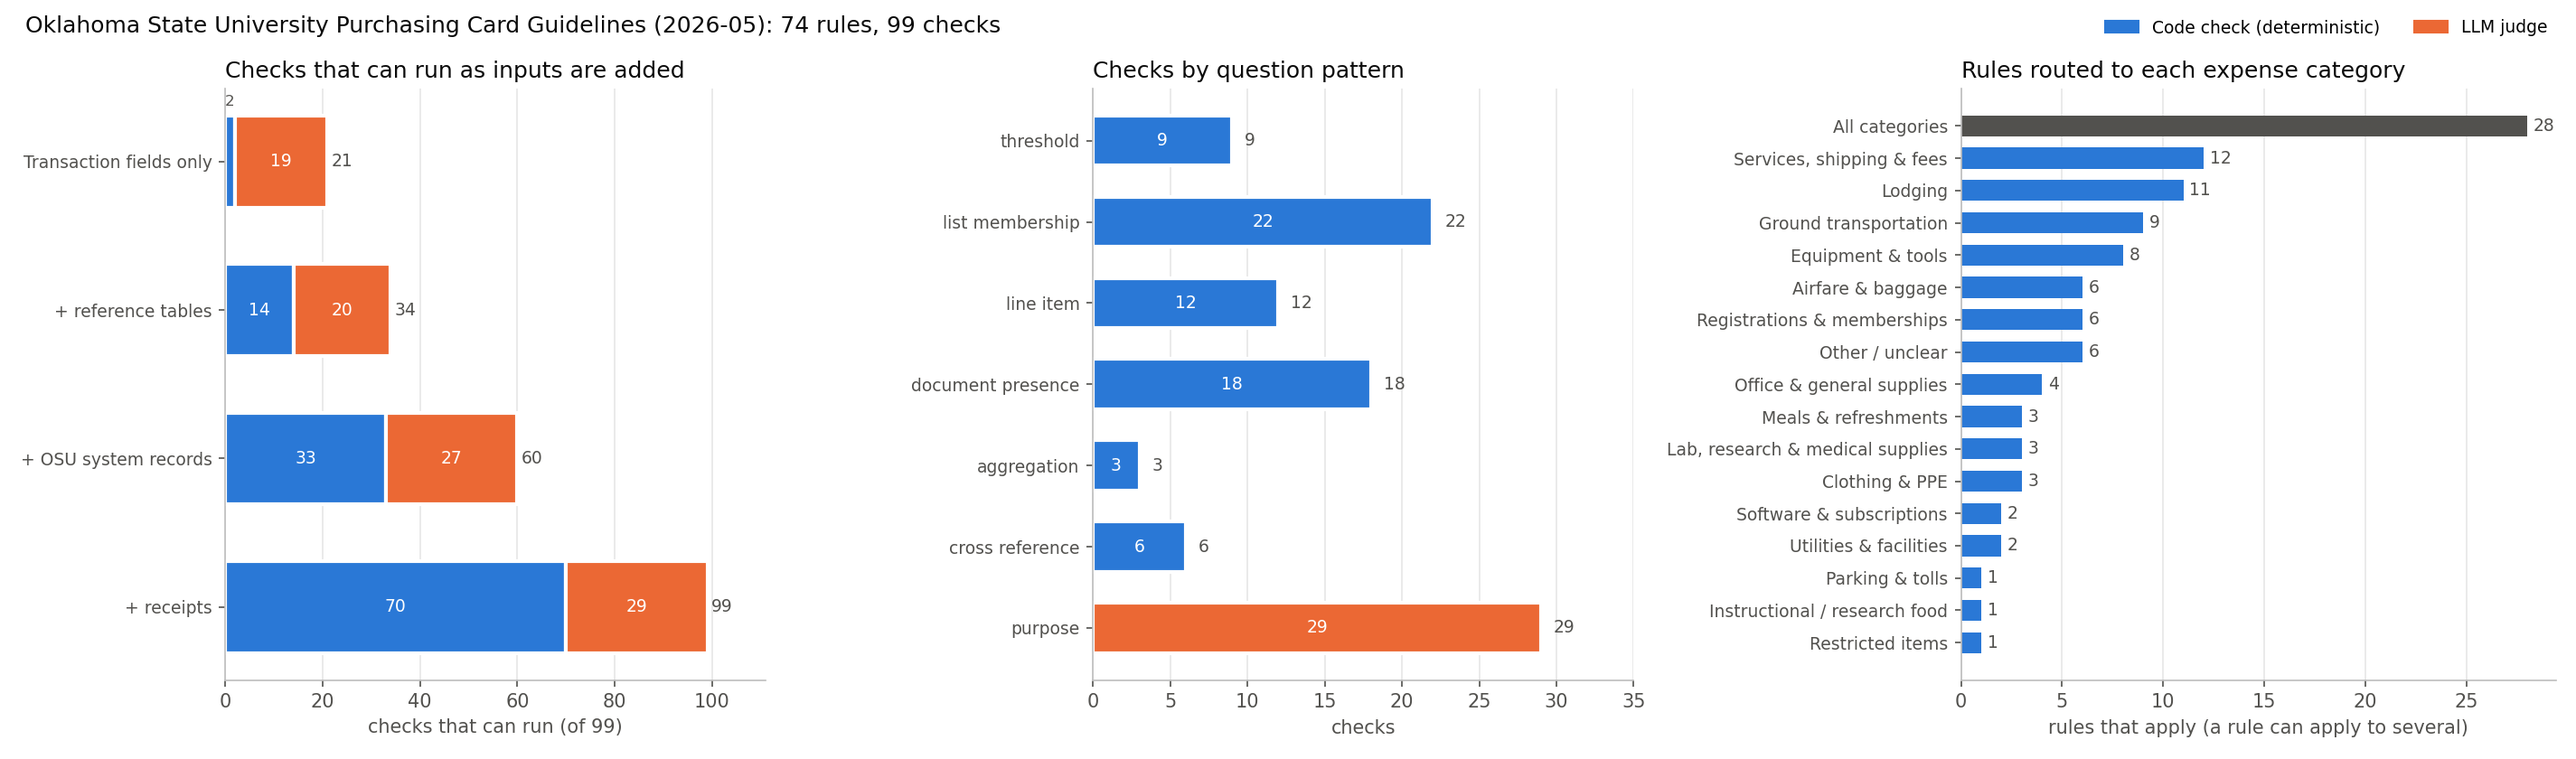
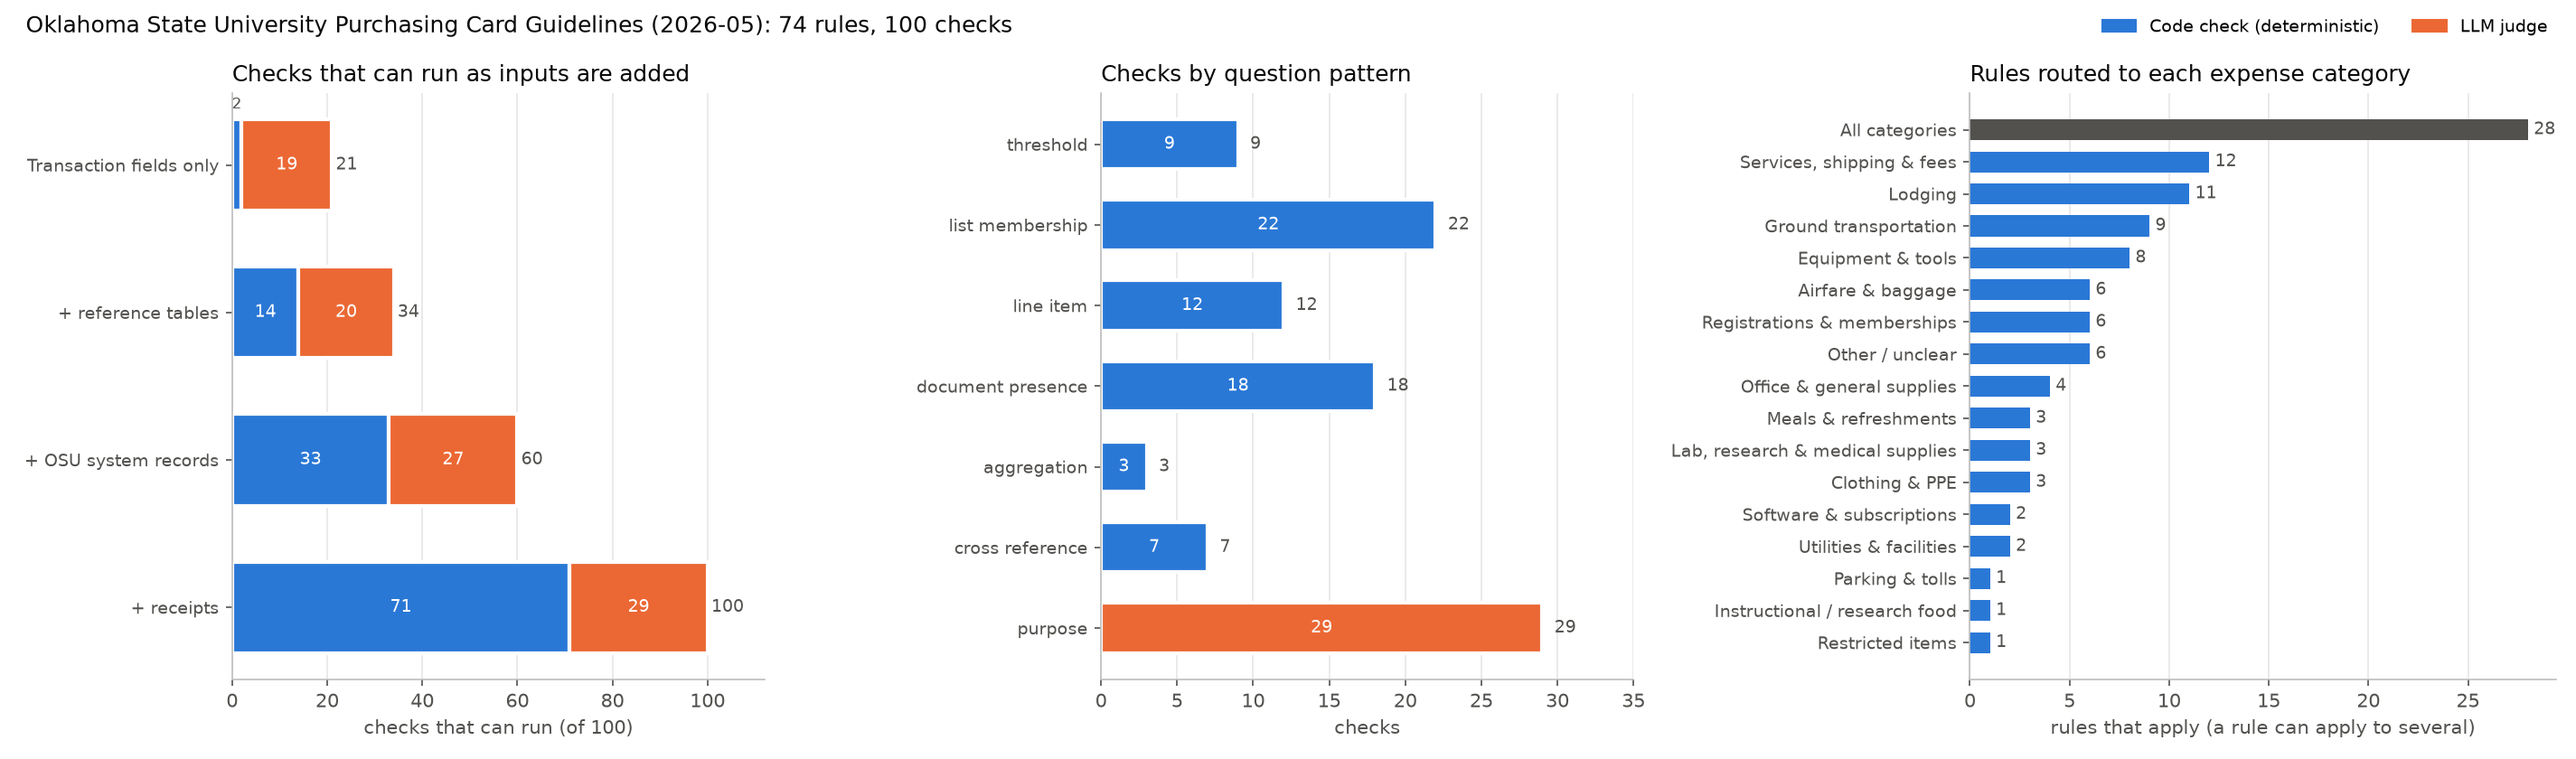
docs: rule checks: deployed inputs, word lists, billing calendar

diff --git a/policies/README.md b/policies/README.md
@@ -11,6 +11,7 @@ policies/
     ├── source/Pcard-Guidelines-2026.05.pdf   # source of truth
     ├── osu_rules.yaml           # rules and their checks (for the engine, routing, citations)
     ├── osu_policy.md            # condensed policy for the LLM judge, tagged with rule and check IDs
+    ├── billing_cycles.yaml      # billing cycles and sign-off cutoffs, for checks with a deadline
     └── rule_breakdown.png       # chart of checks by input, pattern and category
 ```
 
@@ -48,11 +49,11 @@ Rule-level facets: `topic` (`limits`, `vendor`, `process`, `items`, `travel`) fo
 
 **Gates and dependencies.** Some conditions only matter after another one. An airfare upgrade is fine with a documented medical reason, so "receipt shows an upgrade" (OSU-TRV-04a) is a *gate*, and "a documented reason is on file" (OSU-TRV-04b) runs only when the gate is true. The same pattern covers gift cards (OSU-PRH-10a detects them, then the OSU-RST-06 checks run), split purchases (candidate groups, then the judge), food approval and resale permits. Gates keep the engine from reporting a condition that is fine in context.
 
-**Deadlines.** Documents and approvals are attached during reconciliation, the asset report is due within 24 hours, and cycle totals aren't final until the cycle ends. Checks with `timing` report *pending* until their deadline, so a missing receipt on day one isn't a violation.
+**Deadlines.** Documents and approvals are attached during reconciliation, the asset report is due within 24 hours, and cycle totals aren't final until the cycle ends. Checks with `timing` report *pending* until their deadline, so a missing receipt on day one isn't a violation. Deadlines in a billing cycle come from `osu/billing_cycles.yaml`, because the Pcard accountant sets each cycle's sign-off cutoff.
 
-**Patterns map to checkers.** The engine needs one implementation per pattern (seven in total), not one per rule. A new policy is mostly YAML.
+**Checks map to checkers.** Each `code` check has a checker in `src/flag_it/decide/checks/`, registered by check ID in `registry.py`. Checks of one pattern share code: every `line_item` check is the same function reading different word lists from `params`: `<name>_terms` are certain evidence and fail the check, `<name>_review_terms` are ambiguous and only send the run to be looked at, and `<name>_except_terms` cancel a match ("special interest" cancels "interest"). So a new policy is mostly YAML: its limits and word lists reuse the existing checkers.
 
-**Inputs gate checks.** If any `requires` input is missing, the check reports *not evaluated: missing \<input\>* instead of pass or fail. A deployment lists the inputs it has, and checks switch on as inputs are added, with no change to the rules. The input kinds:
+**Inputs gate checks.** A deployment lists the inputs it has in `src/flag_it/decide/checks/inputs.yaml`. A check that needs an input the deployment doesn't have is skipped and reports nothing; it switches on when the input is added, with no change to the rules. If a deployed input is missing for one transaction (no receipt yet), the check reports *not evaluated: missing \<input\>* instead of pass or fail. The input kinds:
 
 - `table:<name>`: a maintained reference table, such as MCC lists, the OSU-department merchant list, GSA lodging rates, or campus addresses. Kept by a separate process and versioned.
 - `records:<system>`: OSU system records. `works` holds card, fund, description and trip number; `hr` holds employee type; `airs` holds travel requests; the others are `asset_mgmt`, `coi` (conflict-of-interest disclosures), `approvals` and `accounts_payable`. These are integrations, and some are time-dependent (an asset report is due within 24 hours).
@@ -68,7 +69,7 @@ The LLM judge reads `osu_policy.md`. Its section 6, the list of checks the judge
 
 ![OSU rule breakdown](osu/rule_breakdown.png)
 
-74 rules, 99 checks: 70 code (6 of them gates), 29 LLM.
+74 rules, 100 checks: 71 code (6 of them gates), 29 LLM.
 
 **Checks that can run as inputs are added** (cumulative):
 
@@ -76,8 +77,8 @@ The LLM judge reads `osu_policy.md`. Its section 6, the list of checks the judge
 |---|---|---|---|---|
 | Transaction fields only | 2 | 19 | 21 | 21% |
 | + reference tables | 14 | 20 | 34 | 34% |
-| + OSU system records | 33 | 27 | 60 | 61% |
-| + receipts | 70 | 29 | 99 | 100% |
+| + OSU system records | 33 | 27 | 60 | 60% |
+| + receipts | 71 | 29 | 100 | 100% |
 
 **Checks by pattern:**
 
@@ -88,15 +89,15 @@ The LLM judge reads `osu_policy.md`. Its section 6, the list of checks the judge
 | line_item | 12 | 0 | 12 |
 | document_presence | 18 | 0 | 18 |
 | aggregation | 3 | 0 | 3 |
-| cross_reference | 6 | 0 | 6 |
+| cross_reference | 7 | 0 | 7 |
 | purpose | 0 | 29 | 29 |
-| **Total** | **70** | **29** | **99** |
+| **Total** | **71** | **29** | **100** |
 
 What this means for the pipeline:
-- **71% of checks are deterministic** (70 of 99). Only questions about what something is, who it was for, or why go to the LLM.
+- **71% of checks are deterministic** (71 of 100). Only questions about what something is, who it was for, or why go to the LLM.
 - **With transaction fields alone, almost nothing deterministic can run.** Only 2 code checks: the $10,000 limit and the same-merchant split-purchase gate. Most of the 21 runnable checks are LLM checks working from item text, and in this data 44% of item text is generic, so expect many `unclear` answers.
 - **Reference tables are the cheapest gain** (+12 code checks). Most are small lists that come straight from the policy, such as the alcohol, postage, insurance and licensed-profession MCCs.
-- **Receipts unlock the most** (+37 code checks): tax, tips, fees, fare class, folio lines and terms. Without receipts, 39 checks report "not evaluated" (37 code, plus 2 LLM checks that can only be judged from the receipt: restocking fees and rental mileage).
+- **Receipts unlock the most** (+38 code checks): tax, tips, fees, fare class, folio lines and terms. Without receipts, 40 checks report "not evaluated" (38 code, plus 2 LLM checks that can only be judged from the receipt: restocking fees and rental mileage).
 - **28 rules apply to every transaction.** Services/shipping (12) and lodging (11) have the most category-specific rules.
 
 ## Regenerating

diff --git a/docs/decisions.md b/docs/decisions.md
@@ -8,6 +8,29 @@ How to add an entry:
 - Keep each entry to a few lines.
 - If a later decision changes an earlier one, say so in both entries.
 
+## 2026-11-16: Rule checks: only certain evidence fails; deployed inputs; word lists in the rules YAML; a billing calendar
+
+- **Decided:**
+  - `run_rule_checks` runs every applicable `code` check on a snapshot and returns flags. A check that needs an input the deployment doesn't have (listed in `src/flag_it/decide/checks/inputs.yaml`, today `transaction` and `receipt`) is skipped with no flag. A deployed input missing for one transaction gives `not_evaluated`. For a `document_presence` check, the missing document is itself the finding: `pending` before its deadline, `fail` after.
+  - **Only certain evidence fails a check.** Certain evidence is `fail` (a hard failure for any severity except guidance). Suggestive evidence is `unclear`: never a hard failure, but `needs_review` is set and the run can't be auto-approved. A blank receipt field is `not_evaluated`, because the reader may have missed it.
+  - Line-item checks read three word lists from the rule's `params`: `<name>_terms` (certain), `<name>_review_terms` (ambiguous), and `<name>_except_terms` (phrases that cancel a match). Matching is on whole words, ignoring case and punctuation. Lodging lines are recognized by `line_type: room` before any word. Every list has tests for innocent lines that share its words ("Special Interest Group dues", "Meeting room rental"). The lists are drafted from the rule text and need the same human review as the rest of the YAML.
+  - The receipt total may differ from the charge by `total_tolerance` (0.50, the same as receipt matching); a tip on the receipt may explain the rest; a charge higher than a receipt with no tip is `unclear` (a tip may have been added after printing). Percentages are compared exactly.
+  - New check `OSU-GEN-04c` reports a receipt whose `match_status` is `mismatch` as `unclear`, as contracts.md's "a mismatch is a finding" requires. Other checks don't read a mismatched receipt's lines, since it may not be this charge's receipt. The receipt-total check (`OSU-GEN-04b`) still compares the two, but on a mismatched receipt it only ever needs review, so a receipt that may belong to another charge never causes a hard failure. Plan 13's matcher counts a tip read on the receipt, so ordinary tipped meals match.
+  - 15 checks are implemented. 13 more can't be decided from today's inputs and report `not_evaluated` with the reason, listed in `registry.py`: 12 need receipt facts the extraction doesn't hold (merchant or rental location, delivery dates, service terms, prepayment), and `OSU-SPL-01a` needs the cardholder's other charges. A test keeps the two lists covering every deployable check.
+  - A checker that raises gives `not_evaluated` ("checker error") and is logged; the other checks still run.
+  - Billing cycles and sign-off cutoffs come from `policies/osu/billing_cycles.yaml`, because the Pcard accountant sets each cutoff (Pcard Guidelines p. 14-15). A transaction belongs to the cycle containing its post date. A deadline in a cycle the file doesn't list gives `not_evaluated`. The file ships empty until real cutoffs are added.
+  - "Now" is the snapshot's `created_at`, and a flag's ID is `uuid5(decision_id, check_id)`, so running one snapshot for one run twice gives the same flags.
+  - **Later, in order:** (1) the receipt reader tags each line's kind (`alcohol`, `penalty`, ...) from a fixed list, a contract change made with plan 13's bake-off; a reader tag that agrees with the words is certain, and one that disagrees needs review. (2) The agent judges `unclear` lines with the line cited (plan 16). (3) Once reviews exist (plan 17), a labeled set of receipt lines gates every check that can hard-fail on precision in CI, and words that reviewers keep overruling move from `_terms` to `_review_terms`.
+- **Why:** A hard failure skips the screener and the agent, so a wrong one flags an innocent purchase with no second look. Words are ambiguous ("interest", "room"), so a word alone may only send a run to be looked at, and certain words are kept separate. Flagging every input the deployment never has would add 17 to 22 `not_evaluated` flags to each transaction, and reviewers would learn to ignore them. Word lists and tolerances are policy content like limits, so they belong next to their rule, and a new policy stays mostly YAML. A fixed sign-off offset would encode a date the guidelines don't set.
+- **Rejected:**
+  - Every word match as a hard failure (the first draft of this plan; plan review found "Special Interest Group dues" and "Meeting room rental" flagged outright).
+  - Every word match only as a review: clear violations ("bartending", "late fee") would cost an agent call each.
+  - A `not_evaluated` flag for every missing input, deployed or not.
+  - Word lists in a config file next to the code: it splits one rule's meaning across two files.
+  - A sign-off date computed as a fixed number of days after the cycle ends.
+  - One generic checker per pattern: the YAML's `ask` is prose, not a machine-readable condition.
+  - Adding location, delivery date, term, and prepayment fields to the receipt extraction now: a contract change, and a change to plan 13's reader before its bake-off.
+
 ## 2026-11-12: Shared fixtures are generated, committed, and checked
 
 - **Decided:**

diff --git a/docs/contracts.md b/docs/contracts.md
@@ -100,6 +100,10 @@ The snapshot holds the combined expense as one JSON value, not split into column
 
 Every `code` check that applies to the transaction's category runs. Each failure becomes a flag. If any failure is a hard failure (a broken rule that isn't just guidance; see [Terms](#terms-used-on-this-page)), the run ends with route `flag`. The risk screener and the agent are skipped.
 
+Which checks run depends on what the deployment has. A check that needs an input the deployment doesn't have at all (a reference table or university system not yet connected) is skipped and produces no flag; it switches on when the input is added. An input the deployment has but this transaction lacks, such as a receipt that hasn't arrived, gives `not_evaluated` naming it. A field the receipt reader left blank never fails a check: it also gives `not_evaluated`, because the receipt may show it.
+
+Only certain evidence fails a code check. Evidence that suggests a problem but isn't certain, such as an ambiguous word on a receipt line, gives `unclear`. That is never a hard failure, but the run can't be auto-approved: the agent or a person looks at it.
+
 **Why run all checks instead of stopping at the first failure:** the reviewer sees every reason at once, and the labels are more complete. Code checks cost almost nothing.
 
 ### 6. The risk screener decides what the agent sees
@@ -309,7 +313,7 @@ Transactions sent through the intake API also carry `external_id` and `source` (
 |---|---|
 | `receipt_id`, `reader_model` | Key. `receipt_id` is the uploaded file (returned by the upload endpoint and carried by the `read_receipt` job). `reader_model` is the exact model tag and quantization. |
 | `txn_id` | The transaction the receipt was uploaded against. |
-| `match_status` | `matched`, `mismatch` (merchant, date, or total is outside its tolerance), or `unmatched` (the reader couldn't read enough fields to compare). A mismatch is a finding. In v1 every receipt is uploaded against a known transaction, so matching only verifies; it never searches for the transaction. Tolerances are in a config file. |
+| `match_status` | `matched`, `mismatch` (merchant, date, or total is outside its tolerance), or `unmatched` (the reader couldn't read enough fields to compare). A mismatch is a finding. Check `OSU-GEN-04c` reports it as `unclear`, and checks that read the receipt's lines don't judge a mismatched receipt. In v1 every receipt is uploaded against a known transaction, so matching only verifies; it never searches for the transaction. Tolerances are in a config file. |
 | `merchant`, `receipt_date`, `subtotal`, `tax`, `tip`, `total` | Empty when unreadable. An empty value is better than a confident wrong one. |
 | `line_items` | A list of `{description, quantity, unit_price, amount, line_type}`. The only source for tax, tip, room rate, and seat class. |
 
@@ -369,7 +373,7 @@ Transactions sent through the intake API also carry `external_id` and `source` (
 | `flag_id` | Key. |
 | `decision_id`, `txn_id` | The run that produced it. |
 | `rule_id`, `check_id` | Stable IDs from the rules YAML, such as `OSU-TRV-13` and `OSU-TRV-13a`. |
-| `result` | `fail`, `violation`, `unclear`, `pending`, or `not_evaluated`. A missing input is `not_evaluated`, with the missing input named in `evidence`. |
+| `result` | `fail`, `violation`, `unclear`, `pending`, or `not_evaluated`. A missing input is `not_evaluated`, with the missing input named in `evidence`. An input the deployment doesn't have at all produces no flag (see step 5). |
 | `severity` | Copied from the rule. |
 | `evidence` | A list of citations (below). |
 | `score` | Confidence from 0 to 1. |

diff --git a/docs/tech-stack.md b/docs/tech-stack.md
@@ -17,7 +17,7 @@ How to use this page:
 | Receipt matching | Code | TBD | TBD | TBD | TBD |
 | Categorizer | Trained model | LightGBM, using scikit-learn text features such as TF-IDF on the merchant name. CatBoost is tested alongside it (see [below](#categorizer-comparison)). | Inside the pipeline container, for both training and scoring | Well under 1 ms per row. Speed is not a concern at this volume. | lean |
 | Anomaly detector | Statistical baseline first; a trained model only if needed | **Baseline:** a robust z-score for each cardholder, `0.6745 * (amount - median) / MAD`, computed over that cardholder's past spending up to the transaction time. It can also be split by category. Settings come from config: the score threshold (start near 3.5), the minimum history length (below it, return "insufficient history", not 0), and a MAD floor (so constant spending doesn't cause a divide by zero). **Second option:** Isolation Forest on the shared features, only if the baseline misses the anomalies we inject. It needs no labels. | Inside the pipeline container | Well under 1 ms per row | lean |
-| Rule checks | Code | Python, reading rules from `osu_rules.yaml` | TBD | TBD | lean |
+| Rule checks | Code | Python in `src/flag_it/decide/checks/`, reading rules, limits, and word lists from `osu_rules.yaml` and deadlines from `billing_cycles.yaml` | Inside the pipeline process | Microseconds per transaction | set |
 | Risk screener | Trained model | TBD | TBD, for both training and scoring | TBD | TBD |
 | Investigation agent | LLM judge | A hosted API for v1, called through a client that works with any provider, so a self-hosted model can replace it later. Which model: TBD. | Queue worker on the laptop | TBD | lean |
 | Agent tools | Code | Lookups for history, trips, and per diem rates | TBD | TBD | TBD |
